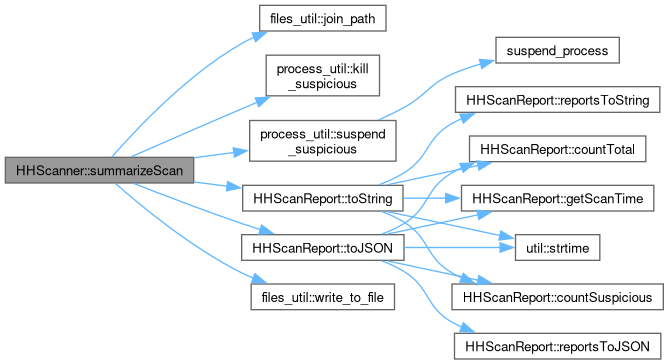
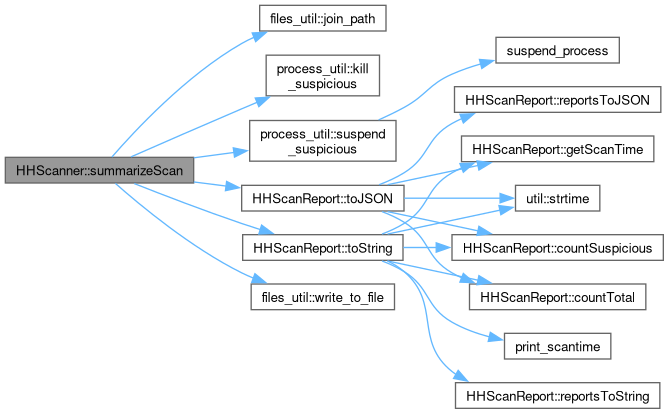
deploy: a89581e4e16e51aedef0ccf7323b5bf22d4a5c05

diff --git a/hh__report_8cpp_source.html b/hh__report_8cpp_source.html
@@ -224,23 +224,41 @@ $(function() { codefold.init(0); });
 <div class="line"><a id="l00130" name="l00130"></a><span class="lineno">  130</span>}</div>
 </div>
 <div class="line"><a id="l00131" name="l00131"></a><span class="lineno">  131</span> </div>
-<div class="foldopen" id="foldopen00132" data-start="{" data-end="}">
-<div class="line"><a id="l00132" name="l00132"></a><span class="lineno"><a class="line" href="class_h_h_scan_report.html#ad7283b381ccf47bc892e264ddd6eae90">  132</a></span>std::string <a class="code hl_function" href="class_h_h_scan_report.html#ad7283b381ccf47bc892e264ddd6eae90">HHScanReport::toString</a>()</div>
-<div class="line"><a id="l00133" name="l00133"></a><span class="lineno">  133</span>{</div>
-<div class="line"><a id="l00134" name="l00134"></a><span class="lineno">  134</span>    std::stringstream stream;</div>
-<div class="line"><a id="l00135" name="l00135"></a><span class="lineno">  135</span>    <span class="comment">//summary:</span></div>
-<div class="line"><a id="l00136" name="l00136"></a><span class="lineno">  136</span>    stream &lt;&lt; <span class="stringliteral">&quot;--------&quot;</span> &lt;&lt; std::endl;</div>
-<div class="line"><a id="l00137" name="l00137"></a><span class="lineno">  137</span>    stream &lt;&lt; <span class="stringliteral">&quot;SUMMARY:\n&quot;</span>;</div>
-<div class="line"><a id="l00138" name="l00138"></a><span class="lineno">  138</span>    stream &lt;&lt; <span class="stringliteral">&quot;Scan at: &quot;</span> &lt;&lt; <a class="code hl_function" href="namespaceutil.html#a56602cb663aeabec567ee3c4d67169a4">util::strtime</a>(this-&gt;<a class="code hl_variable" href="class_h_h_scan_report.html#ac7328ab46e540fe06c1ac5969a8230f5">startTime</a>) &lt;&lt; <span class="stringliteral">&quot; (&quot;</span> &lt;&lt; std::dec &lt;&lt; <a class="code hl_variable" href="class_h_h_scan_report.html#ac7328ab46e540fe06c1ac5969a8230f5">startTime</a> &lt;&lt; <span class="stringliteral">&quot;)\n&quot;</span>;</div>
-<div class="line"><a id="l00139" name="l00139"></a><span class="lineno">  139</span>    stream &lt;&lt; <span class="stringliteral">&quot;Finished scan in: &quot;</span> &lt;&lt; std::dec &lt;&lt; <a class="code hl_function" href="class_h_h_scan_report.html#ae662be540e84fe79516c5fc79c6d9999">getScanTime</a>() &lt;&lt; <span class="stringliteral">&quot; milliseconds\n&quot;</span>;</div>
-<div class="line"><a id="l00140" name="l00140"></a><span class="lineno">  140</span>    stream &lt;&lt; <span class="stringliteral">&quot;[*] Total scanned: &quot;</span> &lt;&lt; std::dec &lt;&lt; <a class="code hl_function" href="class_h_h_scan_report.html#a4610487e2354e4c651abd3e83658f369">countTotal</a>() &lt;&lt; <span class="stringliteral">&quot;\n&quot;</span>;</div>
-<div class="line"><a id="l00141" name="l00141"></a><span class="lineno">  141</span>    stream &lt;&lt; <span class="stringliteral">&quot;[*] Total suspicious: &quot;</span> &lt;&lt; std::dec &lt;&lt; <a class="code hl_function" href="class_h_h_scan_report.html#a10b9aaf6b6f15a816500daff8b200746">countSuspicious</a>() &lt;&lt; <span class="stringliteral">&quot;\n&quot;</span>;</div>
-<div class="line"><a id="l00142" name="l00142"></a><span class="lineno">  142</span>    <span class="keywordflow">if</span> (<a class="code hl_function" href="class_h_h_scan_report.html#a10b9aaf6b6f15a816500daff8b200746">countSuspicious</a>() &gt; 0) {</div>
-<div class="line"><a id="l00143" name="l00143"></a><span class="lineno">  143</span>        stream &lt;&lt; <span class="stringliteral">&quot;[+] List of suspicious: \n&quot;</span>;</div>
-<div class="line"><a id="l00144" name="l00144"></a><span class="lineno">  144</span>        <a class="code hl_function" href="class_h_h_scan_report.html#a9626d29bcb02ee069de8d5cbb28aad38">reportsToString</a>(stream);</div>
-<div class="line"><a id="l00145" name="l00145"></a><span class="lineno">  145</span>    }</div>
-<div class="line"><a id="l00146" name="l00146"></a><span class="lineno">  146</span>    <span class="keywordflow">return</span> stream.str();</div>
-<div class="line"><a id="l00147" name="l00147"></a><span class="lineno">  147</span>}</div>
+<div class="line"><a id="l00132" name="l00132"></a><span class="lineno">  132</span> </div>
+<div class="foldopen" id="foldopen00133" data-start="{" data-end="}">
+<div class="line"><a id="l00133" name="l00133"></a><span class="lineno"><a class="line" href="hh__report_8cpp.html#a7da95fdc0fd230a1a203045782d07a9c">  133</a></span><span class="keywordtype">void</span> <a class="code hl_function" href="hh__report_8cpp.html#a7da95fdc0fd230a1a203045782d07a9c">print_scantime</a>(std::stringstream &amp;stream, <span class="keywordtype">size_t</span> timeInMs)</div>
+<div class="line"><a id="l00134" name="l00134"></a><span class="lineno">  134</span>{</div>
+<div class="line"><a id="l00135" name="l00135"></a><span class="lineno">  135</span>    <span class="keywordtype">float</span> seconds = ((float)timeInMs / 1000);</div>
+<div class="line"><a id="l00136" name="l00136"></a><span class="lineno">  136</span>    <span class="keywordtype">float</span> minutes = ((float)timeInMs / 60000);</div>
+<div class="line"><a id="l00137" name="l00137"></a><span class="lineno">  137</span>    stream &lt;&lt; std::dec &lt;&lt; timeInMs &lt;&lt; <span class="stringliteral">&quot; ms.&quot;</span>;</div>
+<div class="line"><a id="l00138" name="l00138"></a><span class="lineno">  138</span>    <span class="keywordflow">if</span> (seconds &gt; 0.5) {</div>
+<div class="line"><a id="l00139" name="l00139"></a><span class="lineno">  139</span>        stream &lt;&lt; <span class="stringliteral">&quot; = &quot;</span> &lt;&lt; seconds &lt;&lt; <span class="stringliteral">&quot; sec.&quot;</span>;</div>
+<div class="line"><a id="l00140" name="l00140"></a><span class="lineno">  140</span>    }</div>
+<div class="line"><a id="l00141" name="l00141"></a><span class="lineno">  141</span>    <span class="keywordflow">if</span> (minutes &gt; 0.5) {</div>
+<div class="line"><a id="l00142" name="l00142"></a><span class="lineno">  142</span>        stream &lt;&lt; <span class="stringliteral">&quot; = &quot;</span> &lt;&lt; minutes &lt;&lt; <span class="stringliteral">&quot; min.&quot;</span>;</div>
+<div class="line"><a id="l00143" name="l00143"></a><span class="lineno">  143</span>    }</div>
+<div class="line"><a id="l00144" name="l00144"></a><span class="lineno">  144</span>}</div>
+</div>
+<div class="line"><a id="l00145" name="l00145"></a><span class="lineno">  145</span> </div>
+<div class="foldopen" id="foldopen00146" data-start="{" data-end="}">
+<div class="line"><a id="l00146" name="l00146"></a><span class="lineno"><a class="line" href="class_h_h_scan_report.html#ad7283b381ccf47bc892e264ddd6eae90">  146</a></span>std::string <a class="code hl_function" href="class_h_h_scan_report.html#ad7283b381ccf47bc892e264ddd6eae90">HHScanReport::toString</a>()</div>
+<div class="line"><a id="l00147" name="l00147"></a><span class="lineno">  147</span>{</div>
+<div class="line"><a id="l00148" name="l00148"></a><span class="lineno">  148</span>    std::stringstream stream;</div>
+<div class="line"><a id="l00149" name="l00149"></a><span class="lineno">  149</span>    <span class="comment">//summary:</span></div>
+<div class="line"><a id="l00150" name="l00150"></a><span class="lineno">  150</span>    stream &lt;&lt; <span class="stringliteral">&quot;--------&quot;</span> &lt;&lt; std::endl;</div>
+<div class="line"><a id="l00151" name="l00151"></a><span class="lineno">  151</span>    stream &lt;&lt; <span class="stringliteral">&quot;SUMMARY:\n&quot;</span>;</div>
+<div class="line"><a id="l00152" name="l00152"></a><span class="lineno">  152</span>    stream &lt;&lt; <span class="stringliteral">&quot;Scan at: &quot;</span> &lt;&lt; <a class="code hl_function" href="namespaceutil.html#a56602cb663aeabec567ee3c4d67169a4">util::strtime</a>(this-&gt;<a class="code hl_variable" href="class_h_h_scan_report.html#ac7328ab46e540fe06c1ac5969a8230f5">startTime</a>) &lt;&lt; <span class="stringliteral">&quot; (&quot;</span> &lt;&lt; std::dec &lt;&lt; <a class="code hl_variable" href="class_h_h_scan_report.html#ac7328ab46e540fe06c1ac5969a8230f5">startTime</a> &lt;&lt; <span class="stringliteral">&quot;)\n&quot;</span>;</div>
+<div class="line"><a id="l00153" name="l00153"></a><span class="lineno">  153</span>    stream &lt;&lt; <span class="stringliteral">&quot;Finished scan in: &quot;</span>;</div>
+<div class="line"><a id="l00154" name="l00154"></a><span class="lineno">  154</span>    <a class="code hl_function" href="hh__report_8cpp.html#a7da95fdc0fd230a1a203045782d07a9c">print_scantime</a>(stream, <a class="code hl_function" href="class_h_h_scan_report.html#ae662be540e84fe79516c5fc79c6d9999">getScanTime</a>());</div>
+<div class="line"><a id="l00155" name="l00155"></a><span class="lineno">  155</span>    stream &lt;&lt; <span class="stringliteral">&quot;\n&quot;</span>;</div>
+<div class="line"><a id="l00156" name="l00156"></a><span class="lineno">  156</span>    stream &lt;&lt; <span class="stringliteral">&quot;[*] Total scanned: &quot;</span> &lt;&lt; std::dec &lt;&lt; <a class="code hl_function" href="class_h_h_scan_report.html#a4610487e2354e4c651abd3e83658f369">countTotal</a>() &lt;&lt; <span class="stringliteral">&quot;\n&quot;</span>;</div>
+<div class="line"><a id="l00157" name="l00157"></a><span class="lineno">  157</span>    stream &lt;&lt; <span class="stringliteral">&quot;[*] Total suspicious: &quot;</span> &lt;&lt; std::dec &lt;&lt; <a class="code hl_function" href="class_h_h_scan_report.html#a10b9aaf6b6f15a816500daff8b200746">countSuspicious</a>() &lt;&lt; <span class="stringliteral">&quot;\n&quot;</span>;</div>
+<div class="line"><a id="l00158" name="l00158"></a><span class="lineno">  158</span>    <span class="keywordflow">if</span> (<a class="code hl_function" href="class_h_h_scan_report.html#a10b9aaf6b6f15a816500daff8b200746">countSuspicious</a>() &gt; 0) {</div>
+<div class="line"><a id="l00159" name="l00159"></a><span class="lineno">  159</span>        stream &lt;&lt; <span class="stringliteral">&quot;[+] List of suspicious: \n&quot;</span>;</div>
+<div class="line"><a id="l00160" name="l00160"></a><span class="lineno">  160</span>        <a class="code hl_function" href="class_h_h_scan_report.html#a9626d29bcb02ee069de8d5cbb28aad38">reportsToString</a>(stream);</div>
+<div class="line"><a id="l00161" name="l00161"></a><span class="lineno">  161</span>    }</div>
+<div class="line"><a id="l00162" name="l00162"></a><span class="lineno">  162</span>    <span class="keywordflow">return</span> stream.str();</div>
+<div class="line"><a id="l00163" name="l00163"></a><span class="lineno">  163</span>}</div>
 </div>
 <div class="ttc" id="aclass_h_h_scan_report_html_a084f774e8e143b8165b089b418c4c6a6"><div class="ttname"><a href="class_h_h_scan_report.html#a084f774e8e143b8165b089b418c4c6a6">HHScanReport::reportsToJSON</a></div><div class="ttdeci">size_t reportsToJSON(std::stringstream &amp;stream, size_t level, const t_hh_params &amp;params)</div><div class="ttdef"><b>Definition</b> <a href="#l00051">hh_report.cpp:51</a></div></div>
 <div class="ttc" id="aclass_h_h_scan_report_html_a10b9aaf6b6f15a816500daff8b200746"><div class="ttname"><a href="class_h_h_scan_report.html#a10b9aaf6b6f15a816500daff8b200746">HHScanReport::countSuspicious</a></div><div class="ttdeci">size_t countSuspicious() const</div><div class="ttdef"><b>Definition</b> <a href="hh__report_8h_source.html#l00039">hh_report.h:39</a></div></div>
@@ -252,9 +270,10 @@ $(function() { codefold.init(0); });
 <div class="ttc" id="aclass_h_h_scan_report_html_a9626d29bcb02ee069de8d5cbb28aad38"><div class="ttname"><a href="class_h_h_scan_report.html#a9626d29bcb02ee069de8d5cbb28aad38">HHScanReport::reportsToString</a></div><div class="ttdeci">size_t reportsToString(std::stringstream &amp;stream)</div><div class="ttdef"><b>Definition</b> <a href="#l00035">hh_report.cpp:35</a></div></div>
 <div class="ttc" id="aclass_h_h_scan_report_html_a9d63466cb4cb100244b164ae5e7cc846"><div class="ttname"><a href="class_h_h_scan_report.html#a9d63466cb4cb100244b164ae5e7cc846">HHScanReport::toJSON</a></div><div class="ttdeci">std::string toJSON(const t_hh_params &amp;params)</div><div class="ttdef"><b>Definition</b> <a href="#l00101">hh_report.cpp:101</a></div></div>
 <div class="ttc" id="aclass_h_h_scan_report_html_ac7328ab46e540fe06c1ac5969a8230f5"><div class="ttname"><a href="class_h_h_scan_report.html#ac7328ab46e540fe06c1ac5969a8230f5">HHScanReport::startTime</a></div><div class="ttdeci">time_t startTime</div><div class="ttdef"><b>Definition</b> <a href="hh__report_8h_source.html#l00057">hh_report.h:57</a></div></div>
-<div class="ttc" id="aclass_h_h_scan_report_html_ad7283b381ccf47bc892e264ddd6eae90"><div class="ttname"><a href="class_h_h_scan_report.html#ad7283b381ccf47bc892e264ddd6eae90">HHScanReport::toString</a></div><div class="ttdeci">std::string toString()</div><div class="ttdef"><b>Definition</b> <a href="#l00132">hh_report.cpp:132</a></div></div>
+<div class="ttc" id="aclass_h_h_scan_report_html_ad7283b381ccf47bc892e264ddd6eae90"><div class="ttname"><a href="class_h_h_scan_report.html#ad7283b381ccf47bc892e264ddd6eae90">HHScanReport::toString</a></div><div class="ttdeci">std::string toString()</div><div class="ttdef"><b>Definition</b> <a href="#l00146">hh_report.cpp:146</a></div></div>
 <div class="ttc" id="aclass_h_h_scan_report_html_ae662be540e84fe79516c5fc79c6d9999"><div class="ttname"><a href="class_h_h_scan_report.html#ae662be540e84fe79516c5fc79c6d9999">HHScanReport::getScanTime</a></div><div class="ttdeci">DWORD getScanTime() const</div><div class="ttdef"><b>Definition</b> <a href="hh__report_8h_source.html#l00031">hh_report.h:31</a></div></div>
 <div class="ttc" id="ahh__report_8cpp_html_a658a84d039df1c8c4f7555a7f5de2e14"><div class="ttname"><a href="hh__report_8cpp.html#a658a84d039df1c8c4f7555a7f5de2e14">is_suspicious_process</a></div><div class="ttdeci">bool is_suspicious_process(pesieve::t_report report)</div><div class="ttdef"><b>Definition</b> <a href="#l00017">hh_report.cpp:17</a></div></div>
+<div class="ttc" id="ahh__report_8cpp_html_a7da95fdc0fd230a1a203045782d07a9c"><div class="ttname"><a href="hh__report_8cpp.html#a7da95fdc0fd230a1a203045782d07a9c">print_scantime</a></div><div class="ttdeci">void print_scantime(std::stringstream &amp;stream, size_t timeInMs)</div><div class="ttdef"><b>Definition</b> <a href="#l00133">hh_report.cpp:133</a></div></div>
 <div class="ttc" id="ahh__report_8cpp_html_af8c1dc1f3ee7d070821c2490bba01a84"><div class="ttname"><a href="hh__report_8cpp.html#af8c1dc1f3ee7d070821c2490bba01a84">OUT_PADDED</a></div><div class="ttdeci">#define OUT_PADDED(stream, field_size, str)</div><div class="ttdef"><b>Definition</b> <a href="#l00012">hh_report.cpp:12</a></div></div>
 <div class="ttc" id="ahh__report_8h_html"><div class="ttname"><a href="hh__report_8h.html">hh_report.h</a></div></div>
 <div class="ttc" id="anamespaceutil_html_a56602cb663aeabec567ee3c4d67169a4"><div class="ttname"><a href="namespaceutil.html#a56602cb663aeabec567ee3c4d67169a4">util::strtime</a></div><div class="ttdeci">std::string strtime(const time_t t)</div><div class="ttdef"><b>Definition</b> <a href="time__util_8cpp_source.html#l00011">time_util.cpp:11</a></div></div>

diff --git a/class_h_h_scanner.html b/class_h_h_scanner.html
@@ -539,30 +539,32 @@ Here is the call graph for this function:</div>
 <area shape="poly" title=" " alt="" coords="130,154,241,106,256,100,258,105,243,111,132,159"/>
 <area shape="rect" href="namespaceprocess__util.html#a9edce70fe41a8ec91d549fb9d71a3b10" title=" " alt="" coords="250,121,396,161"/>
 <area shape="poly" title=" " alt="" coords="193,155,234,150,235,155,194,160"/>
-<area shape="rect" href="class_h_h_scan_report.html#a9d63466cb4cb100244b164ae5e7cc846" title=" " alt="" coords="242,235,404,260"/>
+<area shape="rect" href="class_h_h_scan_report.html#a9d63466cb4cb100244b164ae5e7cc846" title=" " alt="" coords="242,185,404,211"/>
+<area shape="poly" title=" " alt="" coords="194,179,227,183,226,189,193,185"/>
+<area shape="rect" href="class_h_h_scan_report.html#ad7283b381ccf47bc892e264ddd6eae90" title=" " alt="" coords="243,235,403,260"/>
 <area shape="poly" title=" " alt="" coords="135,181,243,221,261,227,259,232,241,226,133,186"/>
-<area shape="rect" href="class_h_h_scan_report.html#ad7283b381ccf47bc892e264ddd6eae90" title=" " alt="" coords="243,185,403,211"/>
-<area shape="poly" title=" " alt="" coords="194,179,228,184,227,189,193,185"/>
 <area shape="rect" href="namespacefiles__util.html#af87086ea253d2c9f93852ad9b40fd7ac" title=" " alt="" coords="251,284,395,310"/>
 <area shape="poly" title=" " alt="" coords="117,181,170,225,206,249,243,270,255,276,253,281,240,275,203,254,167,229,114,185"/>
 <area shape="rect" href="suspend_8cpp.html#a3c63f252433e6e7532e441ed5cacca9d" title=" " alt="" coords="496,37,619,63"/>
 <area shape="poly" title=" " alt="" coords="377,118,403,105,426,88,451,72,480,61,482,66,453,77,429,92,405,110,380,122"/>
-<area shape="rect" href="class_h_h_scan_report.html#a10b9aaf6b6f15a816500daff8b200746" title=" " alt="" coords="452,284,663,310"/>
-<area shape="poly" title=" " alt="" coords="388,258,479,278,477,283,387,264"/>
-<area shape="rect" href="class_h_h_scan_report.html#a4610487e2354e4c651abd3e83658f369" title=" " alt="" coords="470,136,646,162"/>
-<area shape="poly" title=" " alt="" coords="381,232,403,221,417,209,426,196,435,183,451,171,461,165,463,170,453,175,439,187,430,199,421,213,405,226,383,236"/>
-<area shape="rect" href="class_h_h_scan_report.html#ae662be540e84fe79516c5fc79c6d9999" title=" " alt="" coords="462,185,654,211"/>
-<area shape="poly" title=" " alt="" coords="387,231,477,212,479,217,388,237"/>
-<area shape="rect" href="class_h_h_scan_report.html#a084f774e8e143b8165b089b418c4c6a6" title=" " alt="" coords="455,333,661,359"/>
-<area shape="poly" title=" " alt="" coords="383,259,405,269,421,282,430,296,439,308,453,320,463,325,461,330,451,324,435,312,426,299,417,286,403,274,381,263"/>
-<area shape="rect" href="namespaceutil.html#a56602cb663aeabec567ee3c4d67169a4" title=" " alt="" coords="516,235,600,260"/>
-<area shape="poly" title=" " alt="" coords="404,245,500,245,500,250,404,250"/>
+<area shape="rect" href="class_h_h_scan_report.html#a10b9aaf6b6f15a816500daff8b200746" title=" " alt="" coords="452,235,663,260"/>
+<area shape="poly" title=" " alt="" coords="388,209,479,228,477,233,387,214"/>
+<area shape="rect" href="class_h_h_scan_report.html#a4610487e2354e4c651abd3e83658f369" title=" " alt="" coords="470,284,646,310"/>
 <area shape="poly" title=" " alt="" coords="383,209,405,220,421,233,430,246,439,259,453,271,463,275,461,280,451,275,435,263,426,249,417,237,403,224,381,214"/>
+<area shape="rect" href="class_h_h_scan_report.html#ae662be540e84fe79516c5fc79c6d9999" title=" " alt="" coords="462,136,654,162"/>
 <area shape="poly" title=" " alt="" coords="387,182,477,163,479,168,388,187"/>
-<area shape="poly" title=" " alt="" coords="403,196,446,196,446,201,403,201"/>
-<area shape="poly" title=" " alt="" coords="388,209,501,233,499,238,387,214"/>
-<area shape="rect" href="class_h_h_scan_report.html#a9626d29bcb02ee069de8d5cbb28aad38" title=" " alt="" coords="456,87,660,112"/>
+<area shape="rect" href="class_h_h_scan_report.html#a084f774e8e143b8165b089b418c4c6a6" title=" " alt="" coords="455,87,661,112"/>
 <area shape="poly" title=" " alt="" coords="378,182,403,171,417,159,426,146,435,133,451,121,461,116,463,121,453,126,439,137,430,149,421,162,405,175,380,187"/>
+<area shape="rect" href="namespaceutil.html#a56602cb663aeabec567ee3c4d67169a4" title=" " alt="" coords="516,185,600,211"/>
+<area shape="poly" title=" " alt="" coords="404,196,500,196,500,201,404,201"/>
+<area shape="poly" title=" " alt="" coords="403,245,436,245,436,250,403,250"/>
+<area shape="poly" title=" " alt="" coords="388,258,479,278,477,283,387,264"/>
+<area shape="poly" title=" " alt="" coords="381,232,403,221,417,209,426,196,435,183,451,171,461,165,463,170,453,175,439,187,430,199,421,213,405,226,383,236"/>
+<area shape="poly" title=" " alt="" coords="387,231,499,208,501,213,388,237"/>
+<area shape="rect" href="hh__report_8cpp.html#a7da95fdc0fd230a1a203045782d07a9c" title=" " alt="" coords="505,333,611,359"/>
+<area shape="poly" title=" " alt="" coords="383,259,405,269,421,282,430,296,439,308,453,320,491,334,489,339,451,324,435,312,426,299,417,286,403,274,381,263"/>
+<area shape="rect" href="class_h_h_scan_report.html#a9626d29bcb02ee069de8d5cbb28aad38" title=" " alt="" coords="456,383,660,408"/>
+<area shape="poly" title=" " alt="" coords="389,259,406,269,417,282,424,295,430,321,436,346,443,358,454,369,458,372,454,377,450,374,438,361,431,348,425,323,419,297,413,285,402,274,386,263"/>
 </map>
 </div>
 

diff --git a/class_h_h_scan_report.html b/class_h_h_scan_report.html
@@ -437,23 +437,25 @@ Here is the call graph for this function:</div>
       </table>
 </div><div class="memdoc">
 
-<p class="definition">Definition at line <a class="el" href="hh__report_8cpp_source.html#l00132">132</a> of file <a class="el" href="hh__report_8cpp_source.html">hh_report.cpp</a>.</p>
+<p class="definition">Definition at line <a class="el" href="hh__report_8cpp_source.html#l00146">146</a> of file <a class="el" href="hh__report_8cpp_source.html">hh_report.cpp</a>.</p>
 <div class="dynheader">
 Here is the call graph for this function:</div>
 <div class="dyncontent">
 <div class="center"><img src="class_h_h_scan_report_ad7283b381ccf47bc892e264ddd6eae90_cgraph.png" border="0" usemap="#aclass_h_h_scan_report_ad7283b381ccf47bc892e264ddd6eae90_cgraph" alt=""/></div>
 <map name="aclass_h_h_scan_report_ad7283b381ccf47bc892e264ddd6eae90_cgraph" id="aclass_h_h_scan_report_ad7283b381ccf47bc892e264ddd6eae90_cgraph">
-<area shape="rect" title=" " alt="" coords="5,104,166,130"/>
+<area shape="rect" title=" " alt="" coords="5,129,166,155"/>
 <area shape="rect" href="class_h_h_scan_report.html#a10b9aaf6b6f15a816500daff8b200746" title=" " alt="" coords="214,5,425,31"/>
-<area shape="poly" title=" " alt="" coords="104,101,152,70,213,40,231,33,233,38,215,45,154,75,107,106"/>
+<area shape="poly" title=" " alt="" coords="98,127,145,84,178,60,212,40,226,34,228,39,215,45,180,64,149,88,101,131"/>
 <area shape="rect" href="class_h_h_scan_report.html#a4610487e2354e4c651abd3e83658f369" title=" " alt="" coords="231,55,408,80"/>
-<area shape="poly" title=" " alt="" coords="149,101,239,82,241,87,151,106"/>
+<area shape="poly" title=" " alt="" coords="116,126,213,89,237,82,239,87,215,94,118,131"/>
 <area shape="rect" href="class_h_h_scan_report.html#ae662be540e84fe79516c5fc79c6d9999" title=" " alt="" coords="223,104,416,130"/>
-<area shape="poly" title=" " alt="" coords="166,114,207,114,207,120,166,120"/>
-<area shape="rect" href="class_h_h_scan_report.html#a9626d29bcb02ee069de8d5cbb28aad38" title=" " alt="" coords="217,153,422,179"/>
-<area shape="poly" title=" " alt="" coords="151,128,241,147,239,152,149,133"/>
-<area shape="rect" href="namespaceutil.html#a56602cb663aeabec567ee3c4d67169a4" title=" " alt="" coords="277,203,362,228"/>
-<area shape="poly" title=" " alt="" coords="107,128,154,159,215,189,263,203,261,209,213,194,152,163,104,132"/>
+<area shape="poly" title=" " alt="" coords="165,131,207,126,208,132,166,136"/>
+<area shape="rect" href="hh__report_8cpp.html#a7da95fdc0fd230a1a203045782d07a9c" title=" " alt="" coords="266,153,373,179"/>
+<area shape="poly" title=" " alt="" coords="166,148,251,157,250,162,165,153"/>
+<area shape="rect" href="class_h_h_scan_report.html#a9626d29bcb02ee069de8d5cbb28aad38" title=" " alt="" coords="217,203,422,228"/>
+<area shape="poly" title=" " alt="" coords="119,153,214,189,239,196,238,201,213,194,117,158"/>
+<area shape="rect" href="namespaceutil.html#a56602cb663aeabec567ee3c4d67169a4" title=" " alt="" coords="277,252,362,278"/>
+<area shape="poly" title=" " alt="" coords="102,154,149,196,181,219,215,238,263,254,261,259,213,243,178,223,146,200,98,158"/>
 </map>
 </div>
 

diff --git a/hh__scanner_8cpp_source.html b/hh__scanner_8cpp_source.html
@@ -564,7 +564,7 @@ $(function() { codefold.init(0); });
 <div class="ttc" id="aclass_h_h_scan_report_html_a4890340468abbdeb2a691292190a62b2"><div class="ttname"><a href="class_h_h_scan_report.html#a4890340468abbdeb2a691292190a62b2">HHScanReport::appendReport</a></div><div class="ttdeci">bool appendReport(pesieve::t_report &amp;scan_report, const std::string &amp;img_name)</div><div class="ttdef"><b>Definition</b> <a href="hh__report_8cpp_source.html#l00025">hh_report.cpp:25</a></div></div>
 <div class="ttc" id="aclass_h_h_scan_report_html_a8ec4849570e43fbf4a915300becceb92"><div class="ttname"><a href="class_h_h_scan_report.html#a8ec4849570e43fbf4a915300becceb92">HHScanReport::suspicious</a></div><div class="ttdeci">std::vector&lt; DWORD &gt; suspicious</div><div class="ttdef"><b>Definition</b> <a href="hh__report_8h_source.html#l00065">hh_report.h:65</a></div></div>
 <div class="ttc" id="aclass_h_h_scan_report_html_a9d63466cb4cb100244b164ae5e7cc846"><div class="ttname"><a href="class_h_h_scan_report.html#a9d63466cb4cb100244b164ae5e7cc846">HHScanReport::toJSON</a></div><div class="ttdeci">std::string toJSON(const t_hh_params &amp;params)</div><div class="ttdef"><b>Definition</b> <a href="hh__report_8cpp_source.html#l00101">hh_report.cpp:101</a></div></div>
-<div class="ttc" id="aclass_h_h_scan_report_html_ad7283b381ccf47bc892e264ddd6eae90"><div class="ttname"><a href="class_h_h_scan_report.html#ad7283b381ccf47bc892e264ddd6eae90">HHScanReport::toString</a></div><div class="ttdeci">std::string toString()</div><div class="ttdef"><b>Definition</b> <a href="hh__report_8cpp_source.html#l00132">hh_report.cpp:132</a></div></div>
+<div class="ttc" id="aclass_h_h_scan_report_html_ad7283b381ccf47bc892e264ddd6eae90"><div class="ttname"><a href="class_h_h_scan_report.html#ad7283b381ccf47bc892e264ddd6eae90">HHScanReport::toString</a></div><div class="ttdeci">std::string toString()</div><div class="ttdef"><b>Definition</b> <a href="hh__report_8cpp_source.html#l00146">hh_report.cpp:146</a></div></div>
 <div class="ttc" id="aclass_h_h_scanner_html_a238a4958607b0f74d44c27c1505b1906"><div class="ttname"><a href="class_h_h_scanner.html#a238a4958607b0f74d44c27c1505b1906">HHScanner::outDir</a></div><div class="ttdeci">std::string outDir</div><div class="ttdef"><b>Definition</b> <a href="hh__scanner_8h_source.html#l00042">hh_scanner.h:42</a></div></div>
 <div class="ttc" id="aclass_h_h_scanner_html_a64bb7d15ea59c9fe7e25f266e05005b9"><div class="ttname"><a href="class_h_h_scanner.html#a64bb7d15ea59c9fe7e25f266e05005b9">HHScanner::isScannerWow64</a></div><div class="ttdeci">bool isScannerWow64</div><div class="ttdef"><b>Definition</b> <a href="hh__scanner_8h_source.html#l00046">hh_scanner.h:46</a></div></div>
 <div class="ttc" id="aclass_h_h_scanner_html_a6700be392afaa57e77ddc4c649e718f1"><div class="ttname"><a href="class_h_h_scanner.html#a6700be392afaa57e77ddc4c649e718f1">HHScanner::printScanRoundStats</a></div><div class="ttdeci">void printScanRoundStats(size_t found, size_t ignored_count)</div><div class="ttdef"><b>Definition</b> <a href="#l00227">hh_scanner.cpp:227</a></div></div>

diff --git a/hh__report_8h_source.html b/hh__report_8h_source.html
@@ -175,7 +175,7 @@ $(function() { codefold.init(0); });
 <div class="ttc" id="aclass_h_h_scan_report_html_a9626d29bcb02ee069de8d5cbb28aad38"><div class="ttname"><a href="class_h_h_scan_report.html#a9626d29bcb02ee069de8d5cbb28aad38">HHScanReport::reportsToString</a></div><div class="ttdeci">size_t reportsToString(std::stringstream &amp;stream)</div><div class="ttdef"><b>Definition</b> <a href="hh__report_8cpp_source.html#l00035">hh_report.cpp:35</a></div></div>
 <div class="ttc" id="aclass_h_h_scan_report_html_a9d63466cb4cb100244b164ae5e7cc846"><div class="ttname"><a href="class_h_h_scan_report.html#a9d63466cb4cb100244b164ae5e7cc846">HHScanReport::toJSON</a></div><div class="ttdeci">std::string toJSON(const t_hh_params &amp;params)</div><div class="ttdef"><b>Definition</b> <a href="hh__report_8cpp_source.html#l00101">hh_report.cpp:101</a></div></div>
 <div class="ttc" id="aclass_h_h_scan_report_html_ac7328ab46e540fe06c1ac5969a8230f5"><div class="ttname"><a href="class_h_h_scan_report.html#ac7328ab46e540fe06c1ac5969a8230f5">HHScanReport::startTime</a></div><div class="ttdeci">time_t startTime</div><div class="ttdef"><b>Definition</b> <a href="#l00057">hh_report.h:57</a></div></div>
-<div class="ttc" id="aclass_h_h_scan_report_html_ad7283b381ccf47bc892e264ddd6eae90"><div class="ttname"><a href="class_h_h_scan_report.html#ad7283b381ccf47bc892e264ddd6eae90">HHScanReport::toString</a></div><div class="ttdeci">std::string toString()</div><div class="ttdef"><b>Definition</b> <a href="hh__report_8cpp_source.html#l00132">hh_report.cpp:132</a></div></div>
+<div class="ttc" id="aclass_h_h_scan_report_html_ad7283b381ccf47bc892e264ddd6eae90"><div class="ttname"><a href="class_h_h_scan_report.html#ad7283b381ccf47bc892e264ddd6eae90">HHScanReport::toString</a></div><div class="ttdeci">std::string toString()</div><div class="ttdef"><b>Definition</b> <a href="hh__report_8cpp_source.html#l00146">hh_report.cpp:146</a></div></div>
 <div class="ttc" id="aclass_h_h_scan_report_html_ad77a79167ffaa20d804ceeec1e19f21c"><div class="ttname"><a href="class_h_h_scan_report.html#ad77a79167ffaa20d804ceeec1e19f21c">HHScanReport::HHScanReport</a></div><div class="ttdeci">HHScanReport(DWORD start_tick, time_t start_time)</div><div class="ttdef"><b>Definition</b> <a href="#l00015">hh_report.h:15</a></div></div>
 <div class="ttc" id="aclass_h_h_scan_report_html_ae662be540e84fe79516c5fc79c6d9999"><div class="ttname"><a href="class_h_h_scan_report.html#ae662be540e84fe79516c5fc79c6d9999">HHScanReport::getScanTime</a></div><div class="ttdeci">DWORD getScanTime() const</div><div class="ttdef"><b>Definition</b> <a href="#l00031">hh_report.h:31</a></div></div>
 <div class="ttc" id="aclass_h_h_scan_report_html_af44464179561d6de2766b6fbf53ad984"><div class="ttname"><a href="class_h_h_scan_report.html#af44464179561d6de2766b6fbf53ad984">HHScanReport::startTick</a></div><div class="ttdeci">DWORD startTick</div><div class="ttdef"><b>Definition</b> <a href="#l00060">hh_report.h:60</a></div></div>

diff --git a/search/all_f.js b/search/all_f.js
@@ -36,13 +36,14 @@ var searchData=
   ['pidtoname_33',['pidToName',['../class_h_h_scan_report.html#a11dc7a2a71e9d16ba9c7f95ad6a4baaf',1,'HHScanReport']]],
   ['pidtoreport_34',['pidToReport',['../class_h_h_scan_report.html#a74077d56483e55918ec3420b528a3994',1,'HHScanReport']]],
   ['print_5fin_5fcolor_35',['print_in_color',['../term__util_8cpp.html#a0547053c3ed0d110bcb9477d83a32095',1,'print_in_color(WORD color, const std::string &amp;text):&#160;term_util.cpp'],['../term__util_8h.html#a0547053c3ed0d110bcb9477d83a32095',1,'print_in_color(WORD color, const std::string &amp;text):&#160;term_util.cpp']]],
-  ['print_5fversion_36',['print_version',['../params_8h.html#aae813382de1d726483950947bc2da569',1,'params.h']]],
-  ['printbanner_37',['printBanner',['../class_h_h_params.html#ad3c3e5a7250906720808df84f8c9c477',1,'HHParams']]],
-  ['printscanroundstats_38',['printScanRoundStats',['../class_h_h_scanner.html#a6700be392afaa57e77ddc4c649e718f1',1,'HHScanner']]],
-  ['printsinglereport_39',['printSingleReport',['../class_h_h_scanner.html#af1a026170edfe507268e6e21c5052bbb',1,'HHScanner']]],
-  ['process_5fprivilege_2ecpp_40',['process_privilege.cpp',['../process__privilege_8cpp.html',1,'']]],
-  ['process_5fprivilege_2eh_41',['process_privilege.h',['../process__privilege_8h.html',1,'']]],
-  ['process_5fstart_5ftime_42',['process_start_time',['../namespaceutil.html#a1b58bbd7118af7892e3926017211542b',1,'util']]],
-  ['process_5futil_43',['process_util',['../namespaceprocess__util.html',1,'']]],
-  ['ptimes_44',['ptimes',['../structt__hh__params.html#a2f2fb874d04169ea8578dde2f7341e90',1,'t_hh_params']]]
+  ['print_5fscantime_36',['print_scantime',['../hh__report_8cpp.html#a7da95fdc0fd230a1a203045782d07a9c',1,'hh_report.cpp']]],
+  ['print_5fversion_37',['print_version',['../params_8h.html#aae813382de1d726483950947bc2da569',1,'params.h']]],
+  ['printbanner_38',['printBanner',['../class_h_h_params.html#ad3c3e5a7250906720808df84f8c9c477',1,'HHParams']]],
+  ['printscanroundstats_39',['printScanRoundStats',['../class_h_h_scanner.html#a6700be392afaa57e77ddc4c649e718f1',1,'HHScanner']]],
+  ['printsinglereport_40',['printSingleReport',['../class_h_h_scanner.html#af1a026170edfe507268e6e21c5052bbb',1,'HHScanner']]],
+  ['process_5fprivilege_2ecpp_41',['process_privilege.cpp',['../process__privilege_8cpp.html',1,'']]],
+  ['process_5fprivilege_2eh_42',['process_privilege.h',['../process__privilege_8h.html',1,'']]],
+  ['process_5fstart_5ftime_43',['process_start_time',['../namespaceutil.html#a1b58bbd7118af7892e3926017211542b',1,'util']]],
+  ['process_5futil_44',['process_util',['../namespaceprocess__util.html',1,'']]],
+  ['ptimes_45',['ptimes',['../structt__hh__params.html#a2f2fb874d04169ea8578dde2f7341e90',1,'t_hh_params']]]
 ];

diff --git a/hh__report_8cpp.html b/hh__report_8cpp.html
@@ -98,6 +98,8 @@ Macros</h2></td></tr>
 Functions</h2></td></tr>
 <tr class="memitem:a658a84d039df1c8c4f7555a7f5de2e14" id="r_a658a84d039df1c8c4f7555a7f5de2e14"><td class="memItemLeft" align="right" valign="top">bool&#160;</td><td class="memItemRight" valign="bottom"><a class="el" href="#a658a84d039df1c8c4f7555a7f5de2e14">is_suspicious_process</a> (pesieve::t_report report)</td></tr>
 <tr class="separator:a658a84d039df1c8c4f7555a7f5de2e14"><td class="memSeparator" colspan="2">&#160;</td></tr>
+<tr class="memitem:a7da95fdc0fd230a1a203045782d07a9c" id="r_a7da95fdc0fd230a1a203045782d07a9c"><td class="memItemLeft" align="right" valign="top">void&#160;</td><td class="memItemRight" valign="bottom"><a class="el" href="#a7da95fdc0fd230a1a203045782d07a9c">print_scantime</a> (std::stringstream &amp;stream, size_t timeInMs)</td></tr>
+<tr class="separator:a7da95fdc0fd230a1a203045782d07a9c"><td class="memSeparator" colspan="2">&#160;</td></tr>
 </table>
 <h2 class="groupheader">Macro Definition Documentation</h2>
 <a id="af8c1dc1f3ee7d070821c2490bba01a84" name="af8c1dc1f3ee7d070821c2490bba01a84"></a>
@@ -148,6 +150,29 @@ Functions</h2></td></tr>
 </div><div class="memdoc">
 
 <p class="definition">Definition at line <a class="el" href="hh__report_8cpp_source.html#l00017">17</a> of file <a class="el" href="hh__report_8cpp_source.html">hh_report.cpp</a>.</p>
+
+</div>
+</div>
+<a id="a7da95fdc0fd230a1a203045782d07a9c" name="a7da95fdc0fd230a1a203045782d07a9c"></a>
+<h2 class="memtitle"><span class="permalink"><a href="#a7da95fdc0fd230a1a203045782d07a9c">&#9670;&#160;</a></span>print_scantime()</h2>
+
+<div class="memitem">
+<div class="memproto">
+      <table class="memname">
+        <tr>
+          <td class="memname">void print_scantime </td>
+          <td>(</td>
+          <td class="paramtype">std::stringstream &amp;</td>          <td class="paramname"><span class="paramname"><em>stream</em>, </span></td>
+        </tr>
+        <tr>
+          <td class="paramkey"></td>
+          <td></td>
+          <td class="paramtype">size_t</td>          <td class="paramname"><span class="paramname"><em>timeInMs</em></span>&#160;)</td>
+        </tr>
+      </table>
+</div><div class="memdoc">
+
+<p class="definition">Definition at line <a class="el" href="hh__report_8cpp_source.html#l00133">133</a> of file <a class="el" href="hh__report_8cpp_source.html">hh_report.cpp</a>.</p>
 
 </div>
 </div>

diff --git a/search/functions_c.js b/search/functions_c.js
@@ -1,9 +1,10 @@
 var searchData=
 [
   ['print_5fin_5fcolor_0',['print_in_color',['../term__util_8cpp.html#a0547053c3ed0d110bcb9477d83a32095',1,'print_in_color(WORD color, const std::string &amp;text):&#160;term_util.cpp'],['../term__util_8h.html#a0547053c3ed0d110bcb9477d83a32095',1,'print_in_color(WORD color, const std::string &amp;text):&#160;term_util.cpp']]],
-  ['print_5fversion_1',['print_version',['../params_8h.html#aae813382de1d726483950947bc2da569',1,'params.h']]],
-  ['printbanner_2',['printBanner',['../class_h_h_params.html#ad3c3e5a7250906720808df84f8c9c477',1,'HHParams']]],
-  ['printscanroundstats_3',['printScanRoundStats',['../class_h_h_scanner.html#a6700be392afaa57e77ddc4c649e718f1',1,'HHScanner']]],
-  ['printsinglereport_4',['printSingleReport',['../class_h_h_scanner.html#af1a026170edfe507268e6e21c5052bbb',1,'HHScanner']]],
-  ['process_5fstart_5ftime_5',['process_start_time',['../namespaceutil.html#a1b58bbd7118af7892e3926017211542b',1,'util']]]
+  ['print_5fscantime_1',['print_scantime',['../hh__report_8cpp.html#a7da95fdc0fd230a1a203045782d07a9c',1,'hh_report.cpp']]],
+  ['print_5fversion_2',['print_version',['../params_8h.html#aae813382de1d726483950947bc2da569',1,'params.h']]],
+  ['printbanner_3',['printBanner',['../class_h_h_params.html#ad3c3e5a7250906720808df84f8c9c477',1,'HHParams']]],
+  ['printscanroundstats_4',['printScanRoundStats',['../class_h_h_scanner.html#a6700be392afaa57e77ddc4c649e718f1',1,'HHScanner']]],
+  ['printsinglereport_5',['printSingleReport',['../class_h_h_scanner.html#af1a026170edfe507268e6e21c5052bbb',1,'HHScanner']]],
+  ['process_5fstart_5ftime_6',['process_start_time',['../namespaceutil.html#a1b58bbd7118af7892e3926017211542b',1,'util']]]
 ];

diff --git a/globals.html b/globals.html
@@ -188,6 +188,7 @@ $(function() {
 <li>PARAM_UNIQUE_DIR&#160;:&#160;<a class="el" href="params_8h.html#a88bdde5058435f3744547d01651def42">params.h</a></li>
 <li>PID_FIELD_SIZE&#160;:&#160;<a class="el" href="hh__scanner_8cpp.html#ac02ff12a84f72a554a357650a1631c2f">hh_scanner.cpp</a></li>
 <li>print_in_color()&#160;:&#160;<a class="el" href="term__util_8cpp.html#a0547053c3ed0d110bcb9477d83a32095">term_util.cpp</a>, <a class="el" href="term__util_8h.html#a0547053c3ed0d110bcb9477d83a32095">term_util.h</a></li>
+<li>print_scantime()&#160;:&#160;<a class="el" href="hh__report_8cpp.html#a7da95fdc0fd230a1a203045782d07a9c">hh_report.cpp</a></li>
 <li>print_version()&#160;:&#160;<a class="el" href="params_8h.html#aae813382de1d726483950947bc2da569">params.h</a></li>
 </ul>
 

diff --git a/globals_func.html b/globals_func.html
@@ -127,6 +127,7 @@ $(function() {
 
 <h3><a id="index_p" name="index_p"></a>- p -</h3><ul>
 <li>print_in_color()&#160;:&#160;<a class="el" href="term__util_8cpp.html#a0547053c3ed0d110bcb9477d83a32095">term_util.cpp</a>, <a class="el" href="term__util_8h.html#a0547053c3ed0d110bcb9477d83a32095">term_util.h</a></li>
+<li>print_scantime()&#160;:&#160;<a class="el" href="hh__report_8cpp.html#a7da95fdc0fd230a1a203045782d07a9c">hh_report.cpp</a></li>
 <li>print_version()&#160;:&#160;<a class="el" href="params_8h.html#aae813382de1d726483950947bc2da569">params.h</a></li>
 </ul>
 
